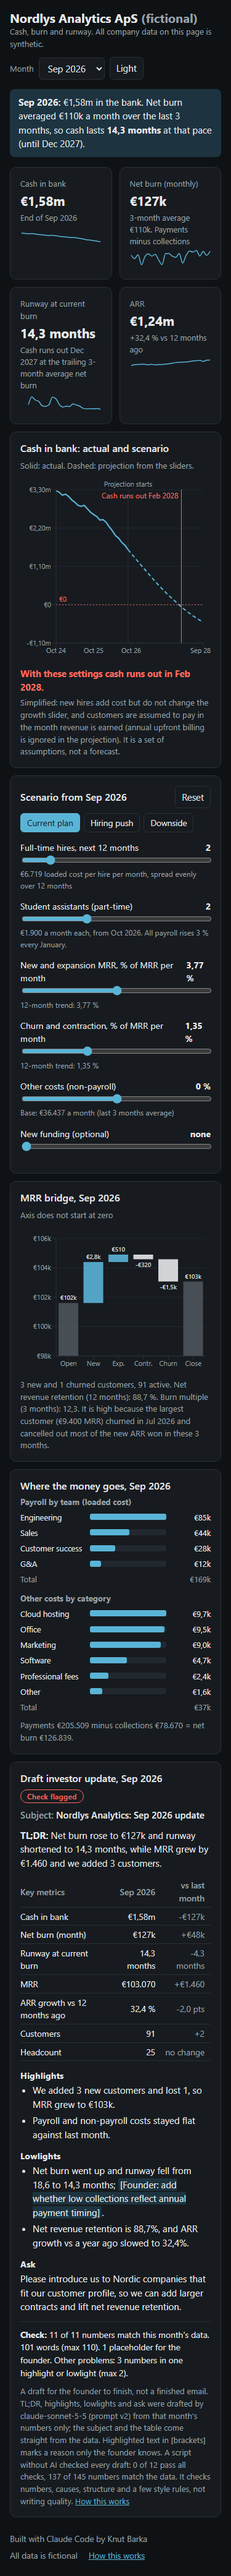
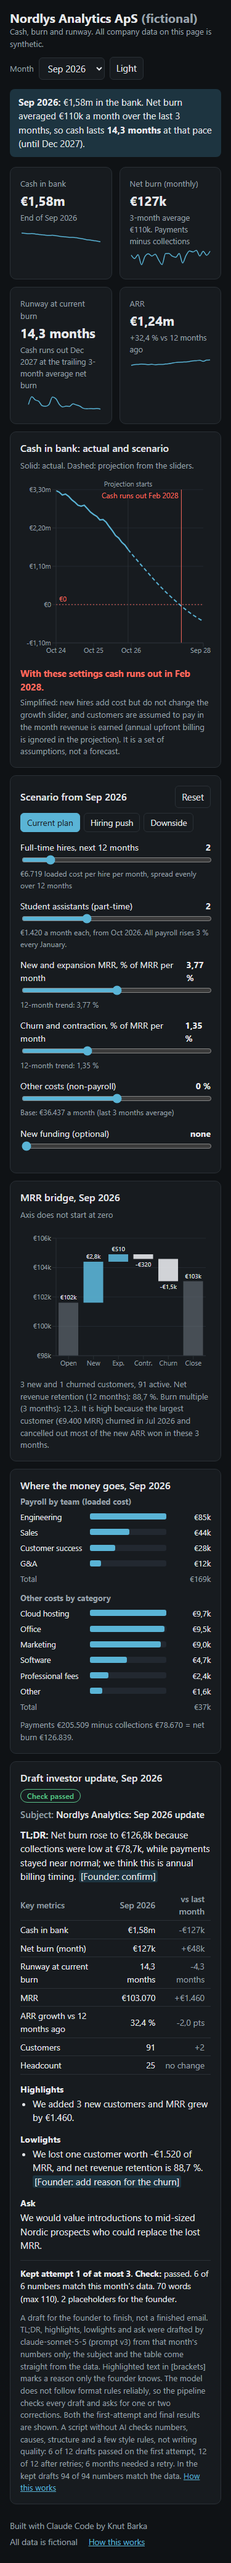
Round 2, step 5: explain guide with two new questions, full data flow, screenshots retaken

Changed region(s): [[0.088, 0.0311, 0.9093, 0.9957]]

diff --git a/scripts/check_updates.py b/scripts/check_updates.py
@@ -171,7 +171,7 @@ def structure_and_style(u, worse):
     banned = sorted({m.group(0).lower() for m in BANNED_RE.finditer(ai_text)})
     if banned:
         fails.append(("banned words", ", ".join(banned)))
-    if "—" in ai_text or "–" in ai_text:   # em dash or en dash
+    if "\u2014" in ai_text or "\u2013" in ai_text:   # em dash or en dash
         fails.append(("dash", "em or en dash used"))
     outside = PLACEHOLDER.sub("", ai_text)
     if "[" in outside or "]" in outside or LOOSE_PLACEHOLDER.search(outside):

diff --git a/docs/explain.md b/docs/explain.md
@@ -87,22 +87,25 @@ The small lines under each KPI (sparklines) show the same number for every month
 ### Draft investor update
 - **Shows:** a draft for the selected month (Oct 2025 to Sep 2026) in five parts, then the check result:
   1. Subject: "Nordlys Analytics: Mon YYYY update". Not AI.
-  2. TL;DR: one sentence with the most important thing this month and what it means. AI.
+  2. TL;DR: one sentence, at most 30 words and two numbers, naming the main event of the month (a churn, a hiring push, a one-off cost, a strong expansion month) and what it means. It must not lead with the change in runway: runway is in the table, and early runway moves are mostly annual billing timing. AI.
   3. Key metrics table: cash, net burn, runway at current burn, MRR, ARR growth, customers, headcount, each with the change vs last month. Not AI: from `sql/09_update_metrics.sql`.
   4. Up to two highlights and two lowlights, one short sentence each. AI.
   5. Ask: one concrete thing investors can help with. AI.
-- **Placeholders:** the data shows what happened, not why. Where a reason matters (why a customer left, what a fee was for, why someone was hired), the AI writes "[Founder: add reason]" instead of guessing. The dashboard highlights these. The drafts are for a founder to finish.
-- **Computed in:** `scripts/write_updates.py` (draft, prompt v2) and `scripts/check_updates.py` (check). Card: `web/components/UpdateCard.tsx`.
-- **History:** v1 was 120 to 180 words of prose. After reviewing two v1 drafts (Apr and Jul 2026) they were too dense (20 or more numbers in running text), had no ask, and wrote as the founder about causes the founder would know but the data does not. v1 is kept in `data/ai/updates_v1.csv`.
+- **Placeholders:** the data shows what happened, not why. Where a reason matters (why a customer left, what a fee was for, why someone was hired), the AI writes "[Founder: add reason]" instead of guessing, at the end of the sentence. The dashboard highlights these. The drafts are for a founder to finish.
+- **Pre-formatted numbers:** every number in the fact sheet is given twice, exact and in a display form computed in Python: "€55.811 (display: €55,8k)", "€1.579.630 (display: €1,58m)", "93,04 % (display: 93,0 %)". The model must copy one of the two and never round on its own.
+- **Validate and retry:** the model does not follow format rules reliably, so the pipeline checks every draft and asks for one or two corrections. Both the first-attempt and final results are shown. Right after each draft, `write_updates.py` runs the same checks as `check_updates.py`. If it fails, one follow-up message in the same conversation lists the failed checks with the offending sentence or number, and asks for a corrected full draft. At most two retries (three attempts); the last attempt is kept, pass or fail. Every attempt is in `data/ai/update_attempts.csv`. The card shows which attempt was kept and its check result.
+- **Result (v3, run once):** 6 of 12 first drafts passed; 12 of 12 after retries; 94 of 94 numbers in the kept drafts match. 6 months needed one retry each (Dec 2025 to May 2026). Most common first-attempt failure: three or four numbers in one highlight or lowlight (3 months). Two first-attempt failures were false flags by my cause check ("Contraction MRR was €0", "churn was zero"); I did not change the checker after the run. 18 API calls, USD 0,1393.
+- **Computed in:** `scripts/write_updates.py` (draft, prompt v3, check and retry) and `scripts/check_updates.py` (check). Card: `web/components/UpdateCard.tsx`.
+- **History:** v1 was 120 to 180 words of prose. After reviewing two v1 drafts (Apr and Jul 2026) they were too dense (20 or more numbers in running text), had no ask, and wrote as the founder about causes the founder would know but the data does not. v2 (the five parts) passed 0 of 12 checks: mostly too many numbers per sentence, and three numbers rounded wrongly by the model (€55k for €55.811). v3 added the pre-formatted numbers, the TL;DR rules and validate and retry. v1 and v2 are kept in `data/ai/updates_v1.csv` and `updates_v2.csv`. v3 is the last prompt change for this project.
 
 ## Main design choices and why
 
 1. **All maths in SQL views, one per file.** One place the numbers come from. Anyone can open a `.sql` file and read the formula.
 2. **A static website.** No server and no database online. Cheap, fast and nothing to break. The trade-off: new data means rebuilding.
 3. **Sliders run in the browser in one small file.** The logic is readable top to bottom, and a test proves it matches an independent Python version to within €1 every month.
-4. **AI text generated once and stored.** Repeatable, cheap (about USD 0,07 for all 12 drafts, each time) and reviewable. Visitors never trigger an API call.
+4. **AI text generated once and stored.** Repeatable, cheap (about USD 0,07 for 12 drafts in v1 and v2; USD 0,14 for v3 with its 6 retries) and reviewable. Visitors never trigger an API call.
 5. **The AI gets a prepared fact sheet, not raw data.** It can only use numbers we gave it, and a script can check them. The numbers investors need most sit in a table built from SQL, so the AI text only has to carry the story.
-6. **Honest check results.** The v2 check was run once: 0 of 12 drafts pass every rule. The results are shown, not regenerated away.
+6. **Honest check results.** Each AI run was done once. The v3 page shows both the first-attempt result (6 of 12) and the final result after retries (12 of 12), and the retry rule and its limit were fixed before the run.
 7. **Planted story.** The data has a hiring push, a big churn, a price increase, a strong expansion month and a one-off fee, so the dashboard and the updates have something to explain.
 
 ## Checks you can run
@@ -113,10 +116,10 @@ The small lines under each KPI (sparklines) show the same number for every month
 | `python scripts/check_scenario.py` | Sanity checks on the projection (month 1 cash, hiring spread, 3 % raise every January, presets) | 8 of 8 pass |
 | `cd web && npm test` | Python and TypeScript projections are equal within €1, for each of the three presets and a stress case; preset buttons set the same values as Python | 5 of 5 pass |
 | `python scripts/write_updates.py` (first lines) | Look-ahead test: the input for each month uses no later data | pass |
-| `python scripts/check_updates.py` | Numbers, named causes, structure and style of the AI parts (v2) | 0 of 12 drafts pass, 137 of 145 numbers match |
+| `python scripts/check_updates.py` | Numbers, named causes, structure and style of the AI parts (v3); self-test of the checker first | 12 of 12 kept drafts pass (6 of 12 on the first attempt), 94 of 94 numbers match |
 | `node scripts/screenshots.mjs` | A finger dragged along a sparkline at 375 px moves the tooltip; presets highlight and clear correctly | both pass |
 
-## 13 likely interview questions
+## 15 likely interview questions
 
 **1. Why trailing 3 months for burn?**
 Annual customers pay upfront, so one month's burn can be very high or even negative. Three months smooths that but still reacts fast. When we hired six people in spring 2026, the 3-month average showed it within one or two months. A 12-month average would still be showing last year's lower costs.
@@ -125,7 +128,7 @@ Annual customers pay upfront, so one month's burn can be very high or even negat
 They answer different questions. The KPI says: if nothing changes, burn stays at the trailing 3-month average. Current plan assumes revenue keeps growing at the past year's pace, and also adds 2 hires, 2 student assistants and a 3 % raise every January. Growth wins by about two months. Hiring push and Downside both run out in Nov 2027, one month before the KPI date. So the KPI is a reasonable middle, and the presets show the range.
 
 **3. How do you know the AI text is right?**
-I do not trust it by default. The model only gets a fact sheet built from the SQL views, and the key numbers sit in a table that does not come from the AI at all. Then a separate script, without AI, checks every number in the AI text against that fact sheet, flags causes the data does not support, and checks the format rules. In v2, 137 of 145 numbers matched. Four misses are real rounding errors (€128.684 written as €128k). Four are "100%", the threshold from the fact sheet, which the checker cannot match: that is a weakness of my checker. No draft passed every rule, mostly because the model put three or four numbers in one sentence where I asked for two. I left that visible. The check does not judge writing quality; the founder still reads and finishes each draft.
+I do not trust it by default. The model only gets a fact sheet built from the SQL views, and the key numbers sit in a table that does not come from the AI at all. Then a separate script, without AI, checks every number in the AI text against that fact sheet, flags causes the data does not support, and checks the format rules. In v2, the model rounded three numbers wrongly (€128.684 written as €128k), and no draft passed every rule. In v3 the model gets every number pre-formatted, and the script checks each draft and asks for a correction when it fails. Half the first drafts failed; after at most one retry each, all 12 pass and all 94 numbers match. Both results are on the page. The checker itself has known weaknesses: it was revised twice for false flags, and in the v3 run it flagged two correct sentences ("churn was zero") as unsupported causes. The check does not judge writing quality; the founder still reads and finishes each draft.
 
 **4. How do you know the AI did not see the future?**
 For each month I rebuild the database with every later month deleted, build the input again and check it is identical. If it is not, the script stops before calling the API. My previous project had a look-ahead bug, so this test is there on purpose.
@@ -149,18 +152,24 @@ A reconciliation script checks the raw data before anything else runs: cash roll
 Be honest and specific. Claude Code wrote the code from a detailed brief I wrote: the company, the planted story, the metric definitions, the checks and the rules (no invented sources, fictional data, look-ahead test, cost cap). My job was to review the output, the decisions log and the check results (only say this once you have done it). I can explain every formula because they are written down in `docs/metrics.md` and each lives in one SQL file.
 
 **11. Why does the projection never hit zero in Current plan, or does it?**
-It does: Current plan runs out of cash in Feb 2028. The first version of the dashboard opened on "no hires, no changes", and there cash never reached zero within 24 months (lowest point about €42k in Sep 2028), because MRR keeps growing at the past year's trend. Current plan is more realistic: it adds 2 full-time hires, 2 student assistants and a 3 % raise every January. Together those extra costs are enough to push the line below zero in Feb 2028, before revenue growth can catch up. The line under the chart says this in words, and it turns red when cash runs out.
+It does: Current plan runs out of cash in Feb 2028 (lowest point -€475.864 in Sep 2028, the last projected month). The first version of the dashboard opened on "no hires, no changes", and there cash never reached zero within 24 months (lowest point about €42k in Sep 2028), because MRR keeps growing at the past year's trend. Current plan is more realistic: it adds 2 full-time hires, 2 student assistants and a 3 % raise every January. Together those extra costs are enough to push the line below zero in Feb 2028, before revenue growth can catch up. The line under the chart says this in words, and it turns red when cash runs out.
 
 **12. Why are student assistants a separate slider?**
-Because they cost very differently. A student assistant works about 15 hours a week and costs about €1.420 a month including holiday pay (65 hours x DKK 145, plus 12,5 % holiday pay, at 7,46 DKK per EUR), against about €6.700 for a full-time hire. If I counted them as hires, two students would look like €13.400 a month instead of €2.840. They also start straight away, while full-time hires are spread over 12 months. The calculation is in `docs/assumptions.md` and is my own assumption, not a published rate.
+Because they cost very differently. A student assistant works about 15 hours a week and costs €1.420 a month including holiday pay (65 hours x DKK 145, plus 12,5 % holiday pay, at 7,46 DKK per EUR), against about €6.700 for a full-time hire. If I counted them as hires, two students would look like €13.400 a month instead of €2.840. They also start straight away, while full-time hires are spread over 12 months. The calculation is in `docs/assumptions.md` and is my own assumption, not a published rate. The first version used €1.900, which had been set backwards (an hourly wage chosen to hit a target number); it now starts from the wage and works forwards.
 
 **13. Why does the AI leave placeholders instead of writing the causes?**
 Because the data only shows what happened, not why. The data shows that the largest customer left in July, but not why it left. It shows €26.668 of professional fees in April, about ten times the usual level, but not what they were for. The first version of the prompt made the model write as the founder, and it filled those gaps with vague phrases like "understanding why that customer left". An investor would read that as the founder not knowing their own business. Now the model writes "[Founder: add reason]" and the founder fills it in. That makes it an honest draft: the AI does the numbers and the structure, the human adds what only the human knows.
+
+**14. Isn't retrying until it passes a form of cheating?**
+It would be if I kept retrying until I liked the result, or quietly showed only the final drafts. Three things stop that. The rule and the cap were set and committed before the run: at most two retries per month, the last attempt kept, pass or fail, and the run done once. Both results are shown: 6 of 12 drafts passed on the first attempt and 12 of 12 after retries, and every attempt is stored. And the retry only gets the checker's output, which checks failed and the offending sentence or number, never the correct values. So the model has to fix its own draft from its own fact sheet. This is also how a founder would use it: a draft that fails a rule goes back for a correction before anyone reads it. What it does not prove is that the model follows the rules on its own; the first-attempt rate says it does about half the time. One honest caveat: two of the six retries were caused by false flags in my cause check, so those two months did not need a retry.
+
+**15. Why give the model pre-formatted numbers?**
+Because it rounded wrongly on its own. In v1 and v2 it wrote €55k for €55.811 three times, and also €99k for €99.519 and €128k for €128.684: it cut numbers off instead of rounding them. Rounding is easy for Python and unreliable for a language model, so Python does it. Every number now comes as "€55.811 (display: €55,8k)", and the model copies one form. In the v3 run no draft had a wrongly rounded number. It also makes the text consistent with the dashboard, and the checker accepts both forms because it allows the rounding the text uses.
 
 ## Where to look first in the code
 
 1. `sql/04_runway.sql`: the runway formula, 20 lines.
 2. `web/lib/scenario.ts`: the slider logic and the three presets, with comments.
-3. `scripts/write_updates.py` (the v2 prompt, near the top) and `scripts/check_updates.py` (how the AI text is checked).
+3. `scripts/write_updates.py` (the v3 prompt near the top, the retry loop in `main()`) and `scripts/check_updates.py` (how the AI text is checked).
 4. `scripts/generate.py`: the planted story is at the top.
 5. `docs/decisions.md`: every choice made without you.

diff --git a/docs/decisions.md b/docs/decisions.md
@@ -110,3 +110,4 @@ Every choice made during the unattended first build, as a list: what, why, and t
 79. **v3 result, run once (reported as it is):** 6 of 12 drafts passed on the first attempt, 12 of 12 after retries; 94 of 94 numbers in the kept drafts match. 6 months needed a retry (Dec 2025 to May 2026), each only one; 18 calls, USD 0,1393 (worst-case estimate USD 1,1527). First-attempt failures: numbers per sentence 3 months, cause not in the data 2, TL;DR numbers 2, TL;DR length 1, word limit 1. No first draft had a wrongly rounded number.
 80. **Two of the six first-attempt failures were false flags by the cause check**, found after the run: Dec 2025 "Contraction MRR was €0" and Feb 2026 "churn was zero". The keyword list ignores a cause only after a negation word or before "none"/"no", not before "was €0" or "was zero". The checker was not changed after the run, because changing it would alter the reported first-attempt result; those two months used a retry they did not need, and this is disclosed on the How this works page and in the README. Alternative: fix the negation rule now (would be a third checker revision made after seeing the results).
 81. **The update card shows the kept attempt and its check**, plus what attempt 1 failed on when a retry was used. The summary numbers (first-attempt and final pass rates, months retried, most-failed checks) are computed in the browser from `update_attempts` in the exported JSON (`attemptSummary()` in `web/lib/data.ts`), so the card and the How this works page use the same numbers.
+82. **Screenshots in round 2:** `preset-current-plan.png` (the default preset, cash runs out in Feb 2028) is now taken as well as `preset-hiring-push.png`, and the update card is photographed for Apr 2026 (`update-apr-2026.png`) and Jul 2026 (`update-jul-2026.png`). The final data flow ran `write_updates.py` without the key (look-ahead test and prompts only, no API calls), so the checked v3 drafts were not replaced.
